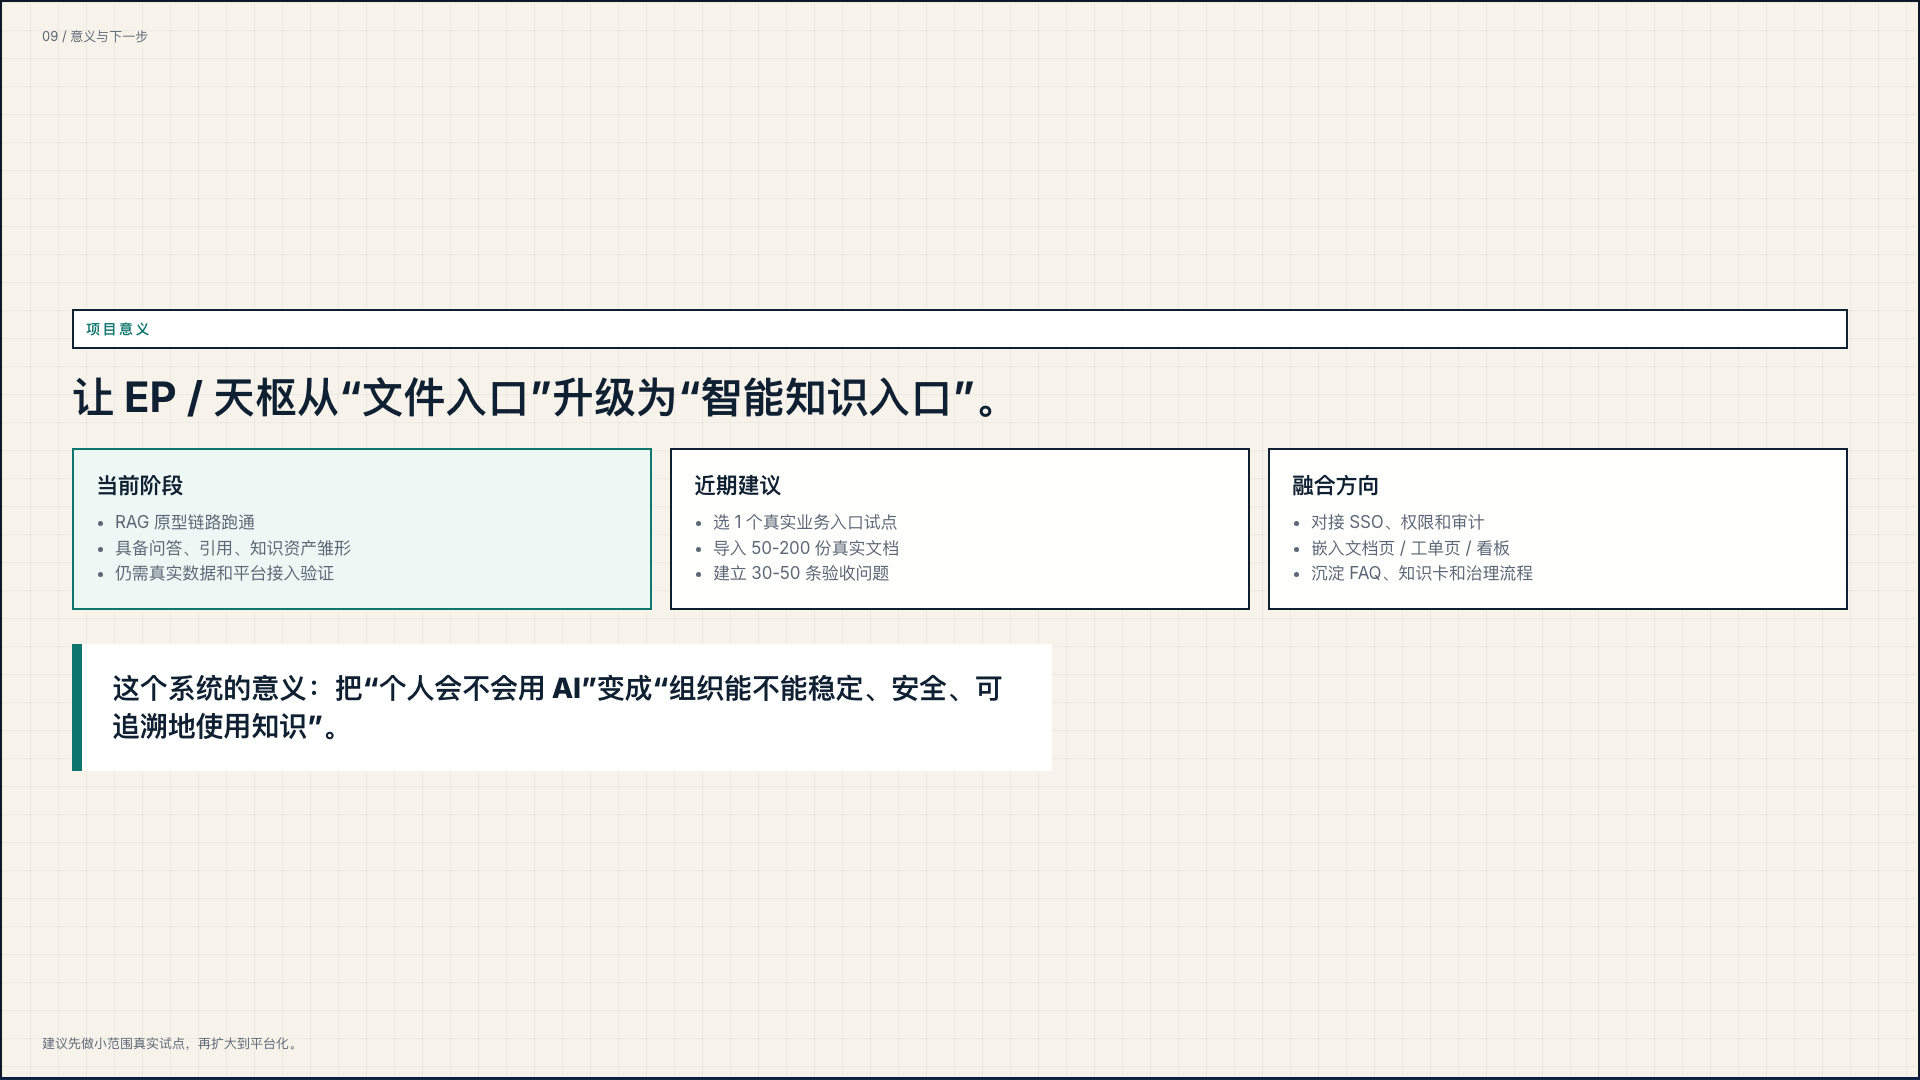
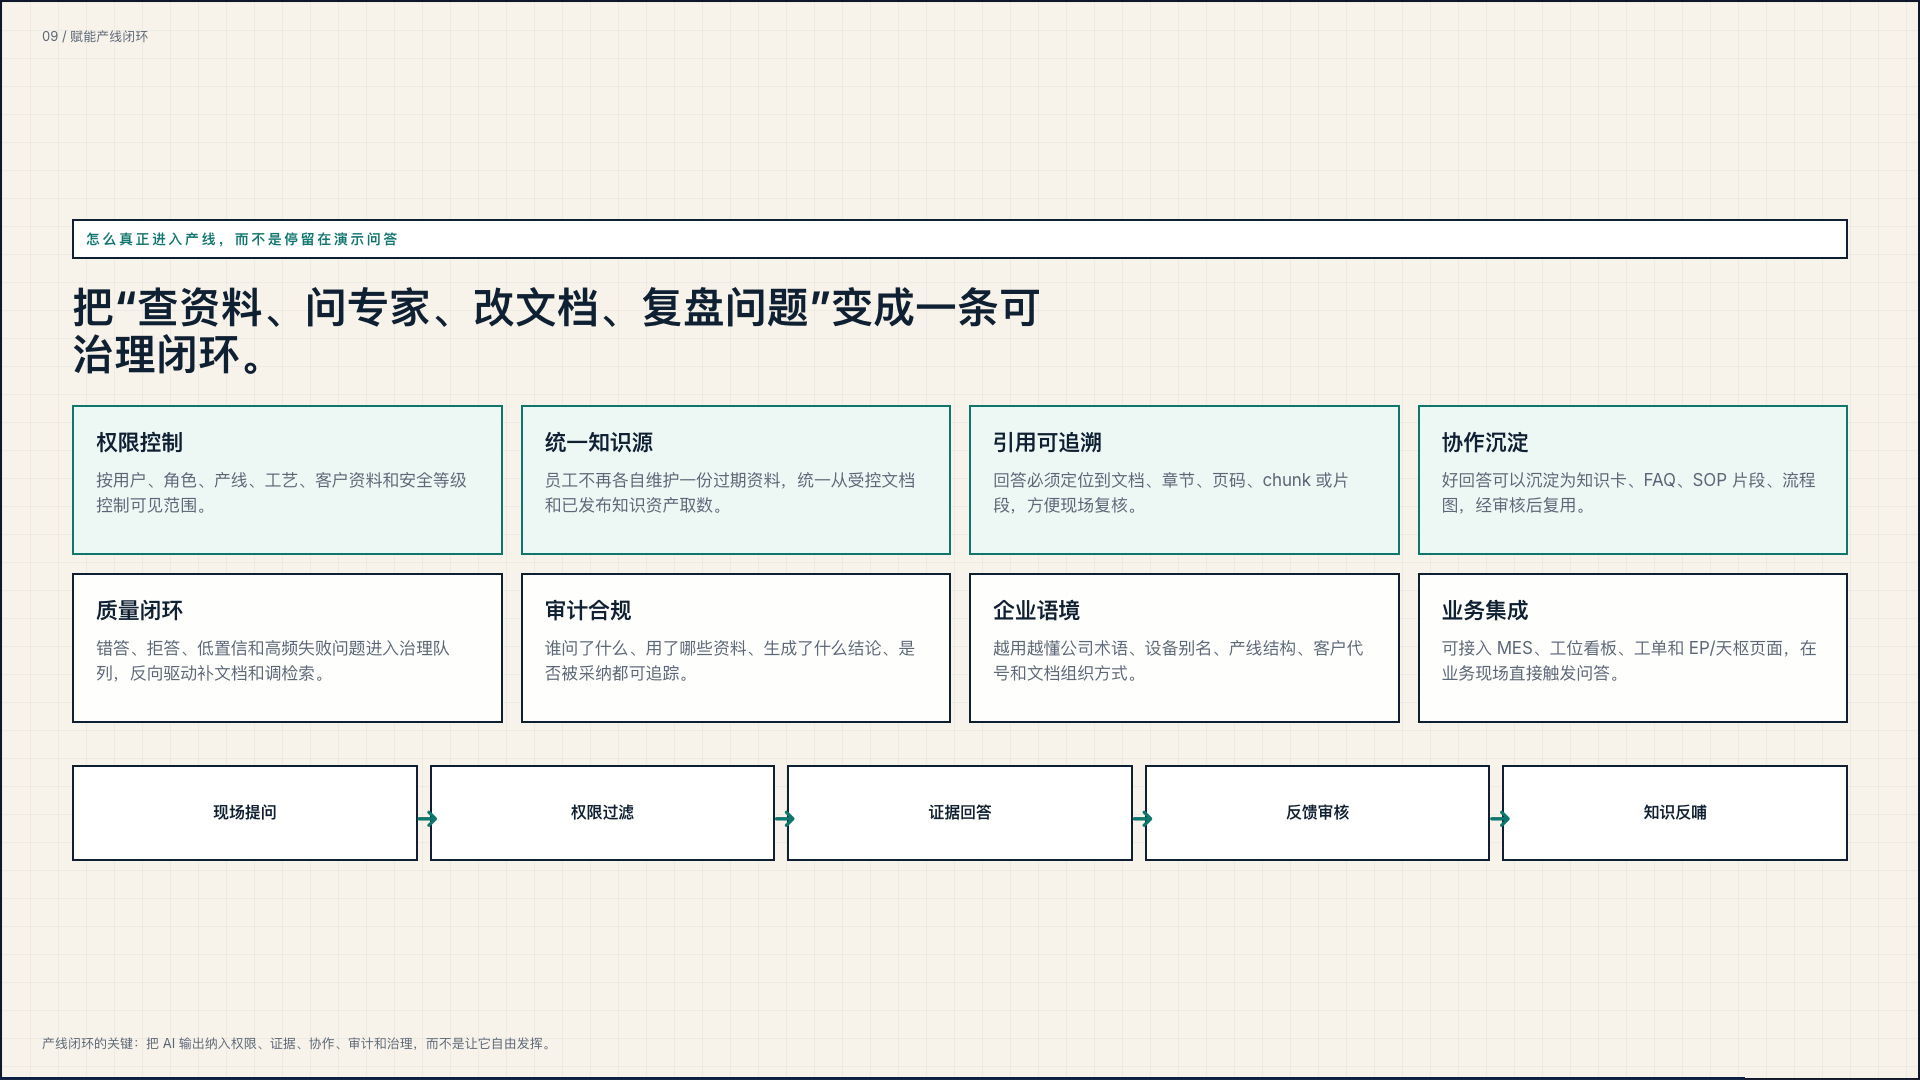
docs(ppt): 补充公司平台关系说明
1. 在汇报材料中新增公司知识库、在线 Agent 平台与当前项目的关系说明。

2. 精简表达当前项目作为产线 AI 知识闭环孵化层的定位和接入路径。

3. 重新渲染 11 页预览图，确认新增页面可正常展示。

Changed region(s): [[0.0312, 0.1833, 0.9688, 0.7639], [0.0312, 0.9472, 0.2812, 0.9778], [0.0312, 0.0306, 0.0625, 0.0611]]

diff --git a/docs/ppt/ep-rag-value/index.html b/docs/ppt/ep-rag-value/index.html
@@ -490,8 +490,38 @@
       <div class="notes">这里要承认 PRD 的表述：我们确实要做 LLM Wiki 式知识资产层。但它不是替代 RAG，而是在 RAG 之上做沉淀、治理和复用。</div>
     </section>
 
+    <section class="slide" data-title="为什么不直接用公司平台">
+      <div class="deck-header">08 / 与公司平台的关系</div>
+      <p class="kicker">不是另起炉灶，而是先做产线 AI 知识能力孵化层</p>
+      <h2>公司知识库和在线 Agent 平台是最终承载方；当前项目负责把产线闭环先跑通。</h2>
+      <div class="grid g3">
+        <div class="card soft">
+          <h3>公司知识库</h3>
+          <p>擅长文档归档、分类、权限和检索；但不一定天然具备产线级可信问答、引用片段、误拒治理和知识沉淀闭环。</p>
+        </div>
+        <div class="card">
+          <h3>在线 Agent 平台</h3>
+          <p>擅长通用对话、工具调用和智能体编排；但产线还需要文档版本、客户隔离、工艺语境、审计和 MES 场景嵌入。</p>
+        </div>
+        <div class="card soft">
+          <h3>当前项目</h3>
+          <p>作为轻量试验田，先验证 RAG + LLM Wiki 闭环：可信回答、知识卡/FAQ、质量反馈、权限过滤和业务接入方式。</p>
+        </div>
+      </div>
+      <div class="flow">
+        <div class="step">独立试点</div>
+        <div class="step">真实文档验证</div>
+        <div class="step">沉淀接口与指标</div>
+        <div class="step">接入天枢/MES</div>
+        <div class="step">反哺公司平台</div>
+      </div>
+      <div class="quote">意义不是替代公司平台，而是用最小成本验证产线知识 AI 闭环，再把成熟能力并入平台。</div>
+      <div class="deck-footer">定位：能力孵化层 / 样板间 / 垂直行业 Agent 能力模块。</div>
+      <div class="notes">这一页用于回答“为什么不直接用公司平台”。核心口径要温和：公司平台是最终承载方，当前项目是验证层。先用小项目跑清楚产线知识闭环，再融合进天枢、公司知识库或小龙虾在线 Agent 平台。</div>
+    </section>
+
     <section class="slide" data-title="产线闭环">
-      <div class="deck-header">08 / 赋能产线闭环</div>
+      <div class="deck-header">09 / 赋能产线闭环</div>
       <p class="kicker">怎么真正进入产线，而不是停留在演示问答</p>
       <h2>把“查资料、问专家、改文档、复盘问题”变成一条可治理闭环。</h2>
       <div class="grid g4">
@@ -540,7 +570,7 @@
     </section>
 
     <section class="slide" data-title="意义与下一步">
-      <div class="deck-header">09 / 意义与下一步</div>
+      <div class="deck-header">10 / 意义与下一步</div>
       <p class="kicker">项目意义</p>
       <h2>让 EP / 天枢从“文件入口”升级为“智能知识入口”。</h2>
       <div class="grid g3">
